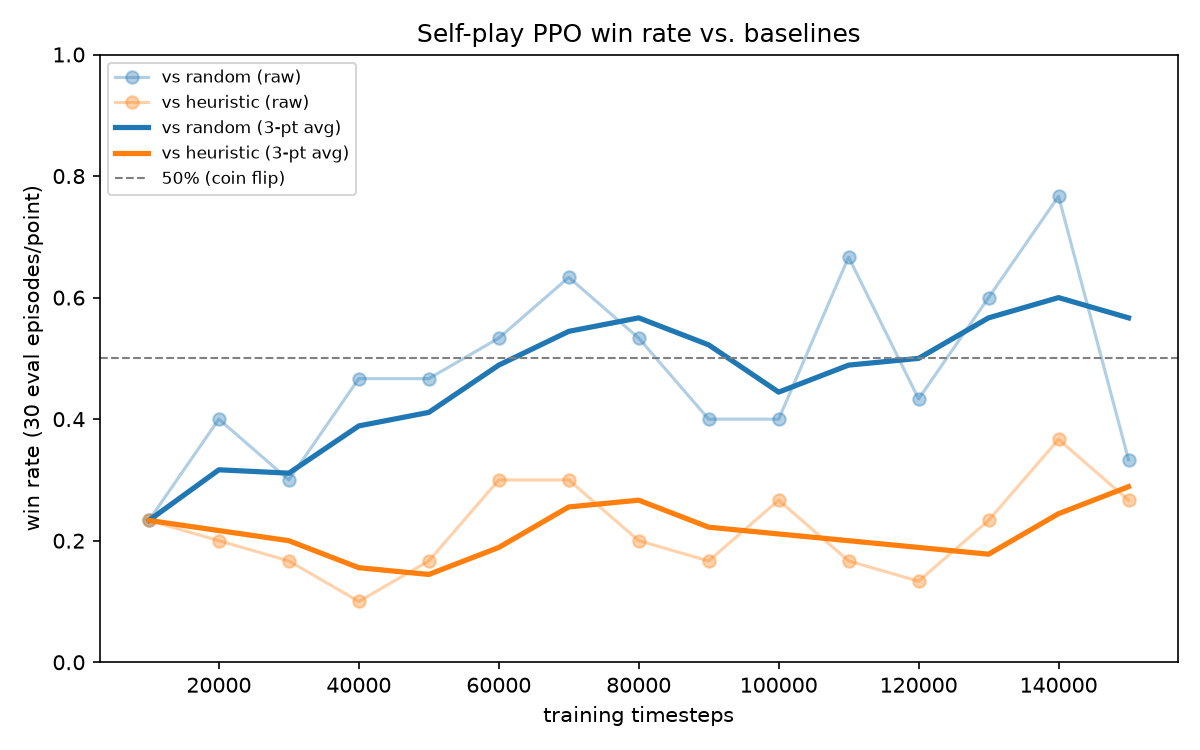
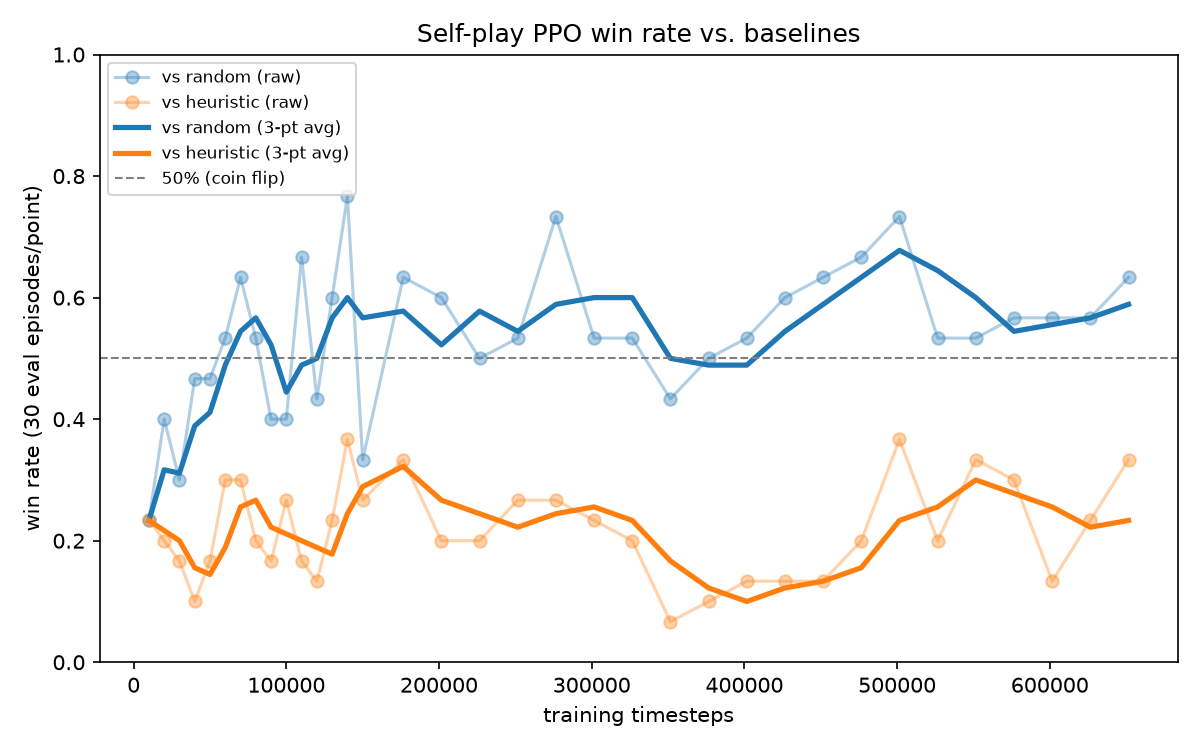
Report full 650k-step training results honestly
Extended run (150k initial + 500k continuation) confirms the plateau
rather than resolving it: vs-random settles into a stable 50-65% band
after ~60k steps, but vs-heuristic never sustainably crosses 50%,
oscillating 10-37% the whole run with a real dip mid-run. More timesteps
alone didn't close the gap -- README now walks through the likely causes
(reward sparsity, league composition, untuned hyperparameters) ranked by
suspicion, since that's the actually useful takeaway from this run.

diff --git a/README.md b/README.md
@@ -74,12 +74,35 @@ reasoning for the genuinely contested ones (ppeok sequencing especially). Every 
 
 ![Training curve](checkpoints/training_curve.png)
 
-Reported honestly rather than cherry-picked: the first 150k-step run shows a real, if noisy, upward
-trend against the **random** baseline (from ~25% up to a steady 55-65%, crossing the 50% line
-around 60k steps), but had **not** yet clearly beaten the **heuristic** baseline (mostly 15-25%,
-one spike to 37%). That's a legitimate partial result for an imperfect-information card game
-trained CPU-only — evidence of real learning, without yet closing the gap on a stronger opponent.
-A longer continuation run is tracked in the same `checkpoints/training_log.csv` / curve above.
+Reported honestly rather than cherry-picked, across a full 650k-timestep run (an initial 150k plus
+a 500k continuation from that checkpoint):
+
+- **vs. random**: real learning, and it holds up. Win rate climbs from ~25% to a 50-65% band within
+  the first ~60k steps and stays there for the rest of training — the agent reliably beats random
+  play, it just doesn't keep improving past that plateau.
+- **vs. heuristic**: never sustainably crosses 50%. It oscillates noisily in roughly a 10-37% band
+  the entire run, including a visible dip to its worst performance (~7-15%) between 350k-450k steps
+  before partially recovering back to 20-33% by the end. There is no clean upward trend against the
+  stronger baseline across 650k steps of training.
+
+**Reading this honestly:** the agent learned a real policy (decisively better than random), but
+plateaued below the heuristic baseline rather than closing the gap with more timesteps alone. The
+likely causes, roughly in order of suspicion:
+1. **Reward sparsity** — a single terminal reward over an ~10-20 step episode is a long credit
+   assignment horizon for vanilla PPO with no shaping.
+2. **League composition** — the self-play pool is only 10% random / 10% heuristic / 80% recent
+   checkpoints; if the checkpoints in that 80% are themselves not much stronger than random, the
+   agent is rarely practicing against something as tough as the heuristic actually is, so there's
+   little pressure to specifically get better than it.
+3. **No hyperparameter tuning** — both runs used the same default-ish PPO settings (net size,
+   entropy coefficient, learning rate) picked before seeing any results, not tuned in response to
+   the plateau.
+
+More timesteps alone (150k -> 650k) did not resolve this, which is itself the useful finding: it
+points at the league/reward design rather than "just needs to train longer" as the next thing to
+change. `rl/evaluate.py` is the harness behind every number here — it alternates both the dealer
+and which seat each policy occupies across episodes so neither a dealer-order nor a seat-index
+artifact can bias a reported win rate.
 
 `rl/evaluate.py` is the harness behind every number here — it alternates both the dealer and which
 seat each policy occupies across episodes so neither a dealer-order nor a seat-index artifact can
